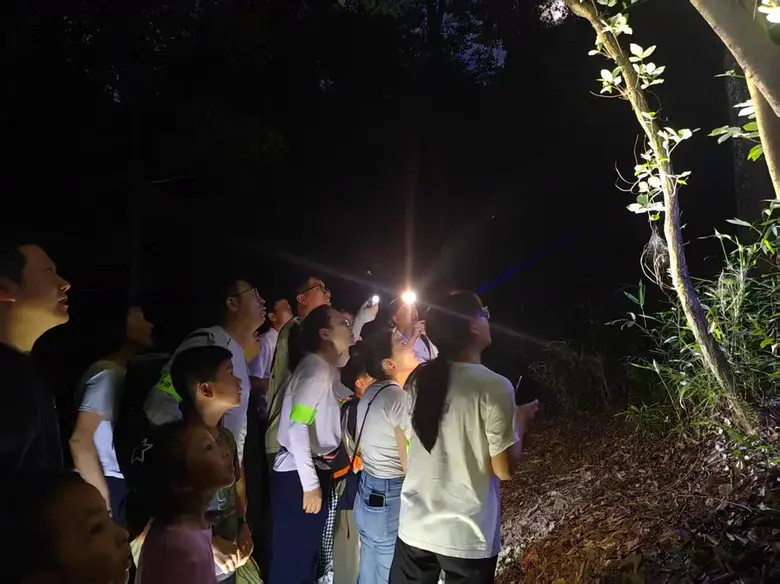
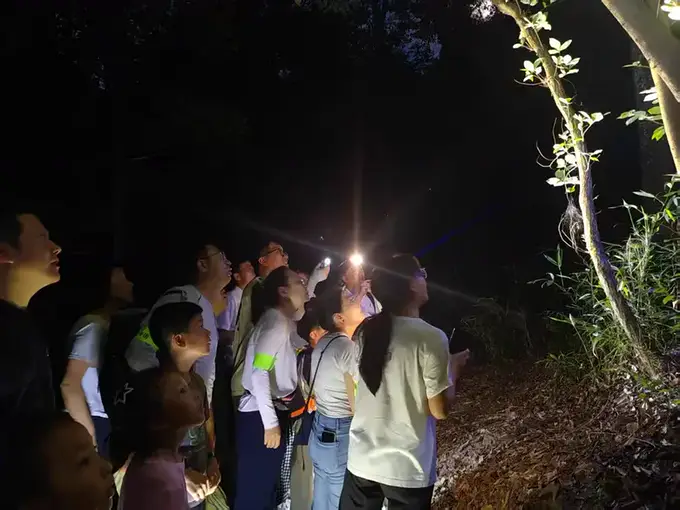
图片三轮压缩至680px/q70全量WebP(photos降至960KB)，品牌名改陈淑怡（Soy），页脚署名更新

Changed region(s): [[0.8647, 0.2941, 0.8956, 0.3235], [0.8338, 0.2353, 0.8647, 0.2647]]

diff --git a/index.html b/index.html
@@ -449,7 +449,7 @@
 
 <!-- 桌面端导览窗格 -->
 <aside class="sidebar">
-  <div class="brand"><span class="avatar">陈</span><span>陈淑怡<small>27届 · 市场 / 运营 / 销售</small></span></div>
+  <div class="brand"><span class="avatar">陈</span><span>陈淑怡（Soy）<small>27届 · 市场 / 运营 / 销售</small></span></div>
   <nav id="nav">
     <div class="rail-dot" aria-hidden="true"></div>
     <a href="#hero" class="active"><i>01</i>个人简介</a>
@@ -461,7 +461,7 @@
     <a href="#skills"><i>07</i>技能与工具</a>
     <a href="#contact"><i>08</i>联系我</a>
   </nav>
-  <div class="side-foot">本站由我亲手搭建并部署<br>Last Update 2026.10</div>
+  <div class="side-foot">本站由Soy搭建并部署<br>Last Update 2026.10</div>
 </aside>
 
 <!-- 移动端吸顶导航 -->
@@ -608,14 +608,14 @@
       <div class="feature reveal">
         <div class="polaroid-wrap">
           <div class="polaroid p1" data-cap="校园地推拉新现场"><img loading="lazy" decoding="async" src="photos/popo-ground2.webp" alt="校园地推拉新活动现场"><div class="p-cap">校园地推拉新现场</div></div>
-          <div class="polaroid p2" data-cap="IP公众号爆文（阅读2.8w）"><img loading="lazy" decoding="async" src="photos/popo-hot.jpg" alt="公众号爆文截图"><div class="p-cap">IP公众号爆文（阅读2.8w）</div></div>
+          <div class="polaroid p2" data-cap="IP公众号爆文（阅读2.8w）"><img loading="lazy" decoding="async" src="photos/popo-hot.webp" alt="公众号爆文截图"><div class="p-cap">IP公众号爆文（阅读2.8w）</div></div>
           <div class="polaroid p3" data-cap="POPO·阶段性成果展示"><img loading="lazy" decoding="async" src="photos/popo-achievements.webp" alt="POPO阶段性成果展示海报"><div class="p-cap">阶段性成果展示</div></div>
           <div class="polaroid p4" data-cap="陪拍师面试座谈会"><img loading="lazy" decoding="async" src="photos/popo-interview.webp" alt="陪拍师面试座谈会现场"><div class="p-cap">陪拍师面试座谈会</div></div>
           <div class="polaroid p5" data-cap="项目真实落地·朋友圈宣传与公众号"><img loading="lazy" decoding="async" src="photos/popo-moments.webp" alt="朋友圈宣传与公众号主页截图"><div class="p-cap">真实落地·朋友圈宣传</div></div>
           <div class="polaroid p6" data-cap="客户二次合作反馈·聊天记录"><img loading="lazy" decoding="async" src="photos/popo-chat.webp" alt="客户二次合作反馈聊天记录"><div class="p-cap">客户二次合作反馈</div></div>
         </div>
         <div class="info">
-          <h3><img class="brand-logo" src="photos/popo-mark.jpg" alt="POPO陪拍logo">POPO陪拍</h3>
+          <h3><img class="brand-logo" src="photos/popo-mark.webp" alt="POPO陪拍logo">POPO陪拍</h3>
           <div class="ip-badge"><img loading="lazy" decoding="async" src="photos/popo-potato.png" alt="POPO小土豆">品牌IP：POPO小土豆</div>
           <p class="desc">项目创始人：以Z世代孤独经济与轻社交需求为背景，从需求验证、团队组建到路演地推与变现全流程操盘。POPO陪拍小程序已于2024年上线，<a href="javascript:void(0)" class="vid-link">点击观看品牌宣传片</a>。</p>
           <div class="metrics">
@@ -639,7 +639,7 @@
           <div class="polaroid p6 top" data-cap="百福岩村政府认可·团队合影"><img loading="lazy" decoding="async" src="photos/yiqi-village.webp" alt="益起译团队在百福岩村政府门口合影"><div class="p-cap">村政府认可·团队合影</div></div>
         </div>
         <div class="info">
-          <h3><img class="brand-logo" src="photos/yiqi-logo.jpg" alt="益起译logo">益起译公益组织<span class="h-meta"><span class="nowrap">2024.9-2025.11</span> · 项目联合创始人</span></h3>
+          <h3><img class="brand-logo" src="photos/yiqi-logo.webp" alt="益起译logo">益起译公益组织<span class="h-meta"><span class="nowrap">2024.9-2025.11</span> · 项目联合创始人</span></h3>
           <p class="desc">在外国人来华旅游浪潮下，为助力实现文旅兴旺，对接本校学生导览员，带领外国友人打破语言壁垒，到中国特色场景“深度游”；运营“益起TRAVEL”社群并组织外国游客十余次乡村深入游览，获温州百福岩村、建德大同村村政府认可，团队荣获浙江外国语学院2024年优秀暑期实践团队称号。</p>
           <div class="metrics">
             <div class="metric"><div class="v"><span data-count="100">0</span><small> +</small></div><div class="k">社群外国游客</div></div>
@@ -657,7 +657,7 @@
           <div class="polaroid p2" data-cap="夜探活动合影留念"><img loading="lazy" decoding="async" src="photos/ziran-hezhao.webp" alt="夜探活动合照"><div class="p-cap">夜探活动合影留念</div></div>
           <div class="polaroid p3" data-cap="标本课、灯诱昆虫等活动实录"><img loading="lazy" decoding="async" src="photos/ziran-activities.webp" alt="标本课与灯诱昆虫活动实录拼图"><div class="p-cap">标本课、灯诱昆虫活动实录</div></div>
           <div class="polaroid p4" data-cap="社群真实运营·群内发布活动"><img loading="lazy" decoding="async" src="photos/ziran-community.webp" alt="社群发布活动截图"><div class="p-cap">社群真实运营·发布活动</div></div>
-          <div class="polaroid p5" data-cap="自然不语·公众号排版与品牌调性奠定"><img loading="lazy" decoding="async" src="photos/ziran-gzh.png" alt="自然不语公众号排版与品牌调性"><div class="p-cap">公众号排版与品牌调性奠定</div></div>
+          <div class="polaroid p5" data-cap="自然不语·公众号排版与品牌调性奠定"><img loading="lazy" decoding="async" src="photos/ziran-gzh.webp" alt="自然不语公众号排版与品牌调性"><div class="p-cap">公众号排版与品牌调性奠定</div></div>
           <div class="polaroid p6 top" data-cap="铂悦城商场摆摊获客"><img loading="lazy" decoding="async" src="photos/ziran-boyue.webp" alt="铂悦城商场摆摊"><div class="p-cap">铂悦城商场摆摊获客</div></div>
         </div>
         <div class="info">
@@ -787,7 +787,7 @@
       <span>电话（微信同号）：15990062752</span>
     </div>
     <p class="egg">© 2026 陈淑怡SOY · 非常高兴能够被你看见</p>
-    <div class="wx"><img loading="lazy" decoding="async" src="photos/wechat-qr.jpg" alt="微信二维码"><div class="cap">期待与你交流</div></div>
+    <div class="wx"><img loading="lazy" decoding="async" src="photos/wechat-qr.webp" alt="微信二维码"><div class="cap">期待与你交流</div></div>
   </footer>
 
 </div>
